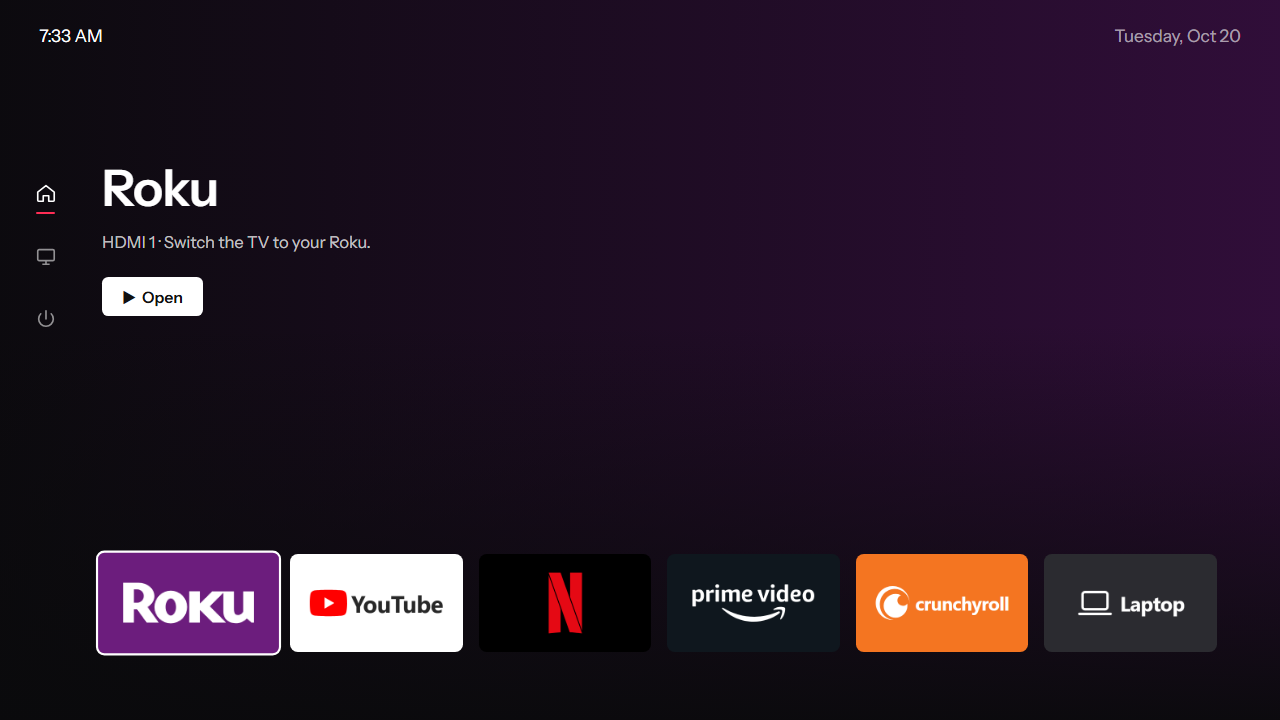
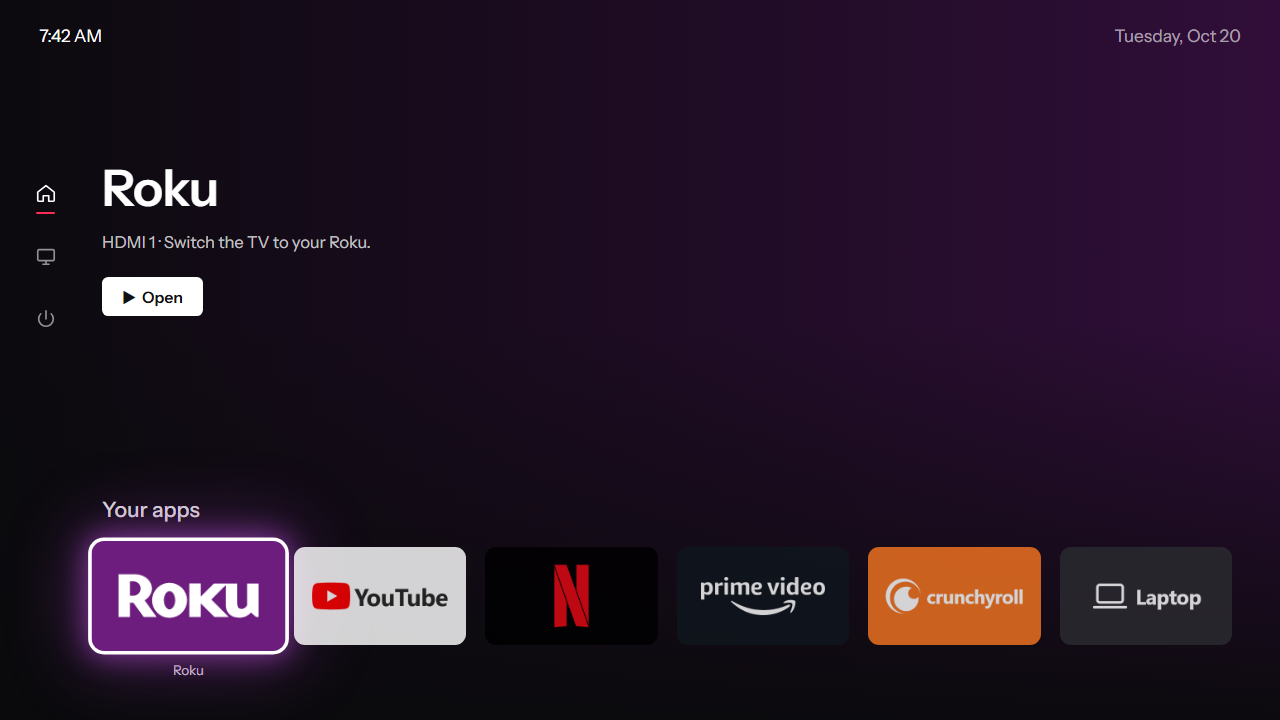
Google TV-style focus: brand-colored glow, white ring, caption, 'Your apps' shelf

diff --git a/src/tvui/static/index.html b/src/tvui/static/index.html
@@ -40,14 +40,19 @@
   .hero .btn { display: inline-block; padding: .6rem 1.3rem; border-radius: .4rem;
     background: #fff; color: #111; font-size: 1rem; font-weight: 600; }
 
-  .row { position: absolute; left: 6.5rem; right: 0; bottom: 3.2rem; height: 7.4rem; white-space: nowrap;
+  .shelf { position: absolute; left: 6.5rem; bottom: 12.6rem; font-size: 1.35rem; font-weight: 500;
+    color: rgba(255,255,255,.85); }
+  .row { position: absolute; left: 6.5rem; right: 0; bottom: 2.4rem; height: 8.6rem; white-space: nowrap;
     -webkit-transition: margin-left .2s; transition: margin-left .2s; }
-  .tile { display: inline-block; vertical-align: top; width: 11rem; height: 6.24rem; margin-right: 1rem;
-    border-radius: .5rem; overflow: hidden; text-align: center; line-height: 6.24rem; font-size: 1.6rem;
-    font-weight: 700; letter-spacing: -.03rem; border: .18rem solid transparent; box-sizing: border-box;
-    background-size: cover; background-position: center;
-    -webkit-transition: -webkit-transform .15s; transition: transform .15s; }
-  .tile.on { border-color: #fff; -webkit-transform: scale(1.07); transform: scale(1.07); }
+  .cell { display: inline-block; vertical-align: top; width: 11rem; margin-right: 1.2rem; text-align: center; }
+  .tile { width: 11rem; height: 6.24rem; border-radius: .7rem; overflow: hidden;
+    line-height: 6.24rem; font-size: 1.6rem; font-weight: 700; letter-spacing: -.03rem;
+    background-size: cover; background-position: center; opacity: .82;
+    -webkit-transition: -webkit-transform .18s, opacity .18s; transition: transform .18s, opacity .18s; }
+  /* Focused: lift, white ring, and a glow in the app's own color */
+  .cell.on .tile { opacity: 1; -webkit-transform: scale(1.12); transform: scale(1.12); }
+  .cap { margin-top: 1.05rem; font-size: .85rem; color: rgba(255,255,255,.8); visibility: hidden; }
+  .cell.on .cap { visibility: visible; }
 
   .note { position: absolute; left: 6.5rem; bottom: 1.2rem; font-size: .9rem; color: rgba(255,255,255,.5); }
 </style>
@@ -64,6 +69,7 @@
 </div>
 
 <div class="hero"><h1 id="title"></h1><p id="desc"></p><span class="btn">&#9654;&nbsp; Open</span></div>
+<div class="shelf">Your apps</div>
 <div class="row" id="row"></div>
 <div class="note" id="note"></div>
 
@@ -74,17 +80,18 @@
 })();
 
 // Known services get their logo tile (img) or brand colors; anything else gets a neutral card.
+// glow: page tint behind the hero; halo: focus glow around the tile.
 var BRANDS = {
-  netflix: { bg: "#000", fg: "#e50914", glow: "#5a0a0e", text: "NETFLIX", img: 1 },
-  youtube: { bg: "#fff", fg: "#ff0000", glow: "#4a1010", text: "YouTube", img: 1 },
-  prime:   { bg: "#0f171e", fg: "#00a8e1", glow: "#0b3550", text: "prime video", img: 1 },
-  roku:    { bg: "#6c1d7d", fg: "#fff", glow: "#3d0f48", text: "Roku", img: 1 },
-  crunchyroll: { bg: "#f47521", fg: "#fff", glow: "#5a2a0b", text: "crunchyroll", img: 1 },
-  laptop:  { bg: "#2b2b30", fg: "#fff", glow: "#24242c", text: "Laptop", img: 1 },
-  hulu:    { bg: "#0b0c0f", fg: "#1ce783", glow: "#0d4a2c", text: "hulu" },
-  disney:  { bg: "#0e1a5c", fg: "#fff", glow: "#0e1a5c", text: "Disney+" },
-  plex:    { bg: "#1f1f1f", fg: "#e5a00d", glow: "#4a3604", text: "plex" },
-  max:     { bg: "#002be7", fg: "#fff", glow: "#001a8c", text: "max" }
+  netflix: { bg: "#000", fg: "#e50914", glow: "#5a0a0e", halo: "229,9,20", text: "NETFLIX", img: 1 },
+  youtube: { bg: "#fff", fg: "#ff0000", glow: "#4a1010", halo: "255,60,60", text: "YouTube", img: 1 },
+  prime:   { bg: "#0f171e", fg: "#00a8e1", glow: "#0b3550", halo: "0,168,225", text: "prime video", img: 1 },
+  roku:    { bg: "#6c1d7d", fg: "#fff", glow: "#3d0f48", halo: "170,70,200", text: "Roku", img: 1 },
+  crunchyroll: { bg: "#f47521", fg: "#fff", glow: "#5a2a0b", halo: "244,117,33", text: "crunchyroll", img: 1 },
+  laptop:  { bg: "#2b2b30", fg: "#fff", glow: "#24242c", halo: "200,200,215", text: "Laptop", img: 1 },
+  hulu:    { bg: "#0b0c0f", fg: "#1ce783", glow: "#0d4a2c", halo: "28,231,131", text: "hulu" },
+  disney:  { bg: "#0e1a5c", fg: "#fff", glow: "#0e1a5c", halo: "60,110,255", text: "Disney+" },
+  plex:    { bg: "#1f1f1f", fg: "#e5a00d", glow: "#4a3604", halo: "229,160,13", text: "plex" },
+  max:     { bg: "#002be7", fg: "#fff", glow: "#001a8c", halo: "40,90,255", text: "max" }
 };
 var DESC = {
   input: "Switch the TV to this HDMI input.",
@@ -100,7 +107,7 @@ var side = document.getElementById("side").getElementsByTagName("div");
 function brand(name) {
   var k = name.toLowerCase();
   for (var b in BRANDS) if (k.indexOf(b) >= 0) { BRANDS[b].key = b; return BRANDS[b]; }
-  return { bg: "#26262b", fg: "#fff", glow: "#222228", text: name };
+  return { bg: "#26262b", fg: "#fff", glow: "#222228", halo: "200,200,215", text: name };
 }
 
 function get(path, done) {
@@ -112,20 +119,31 @@ function get(path, done) {
 
 function build() {
   for (var i = 0; i < tiles.length; i++) {
-    var b = brand(tiles[i].name), t = document.createElement("div");
+    var b = brand(tiles[i].name), c = document.createElement("div"), t = document.createElement("div"),
+        cap = document.createElement("div");
+    c.className = "cell";
     t.className = "tile";
     t.style.backgroundColor = b.bg;
     t.style.color = b.fg;
     if (b.img) t.style.backgroundImage = "url(/tile-" + b.key + ".png)";
     else t.innerHTML = b.text;
-    row.appendChild(t);
+    cap.className = "cap";
+    cap.innerHTML = tiles[i].name;
+    c.appendChild(t);
+    c.appendChild(cap);
+    row.appendChild(c);
   }
   draw();
 }
 
 function draw() {
   var n = row.childNodes;
-  for (var i = 0; i < n.length; i++) n[i].className = "tile" + (!inSide && i === sel ? " on" : "");
+  for (var i = 0; i < n.length; i++) {
+    var on = !inSide && i === sel, h = brand(tiles[i].name).halo, t = n[i].firstChild;
+    n[i].className = "cell" + (on ? " on" : "");
+    t.style.boxShadow = t.style.webkitBoxShadow = on
+      ? "0 0 0 .2rem #fff, 0 0 1.6rem .3rem rgba(" + h + ",.65), 0 0 4rem 1rem rgba(" + h + ",.3)" : "none";
+  }
   for (var j = 0; j < side.length; j++)
     side[j].className = (j === 0 ? "cur" : "") + (inSide && j === sideSel ? " on" : "");
   if (!tiles.length) return;
@@ -133,8 +151,8 @@ function draw() {
   document.getElementById("title").innerHTML = t.name;
   document.getElementById("desc").innerHTML = t.label || DESC[t.action] || "";
   document.getElementById("bg").style.backgroundColor = brand(t.name).glow;
-  // Scroll the row so the selected tile stays on screen (tile + gap = 12rem, ~6 fit).
-  row.style.marginLeft = -Math.max(0, sel - 5) * 12 + "rem";
+  // Scroll the row so the selected tile stays on screen (tile + gap = 12.2rem, ~6 fit).
+  row.style.marginLeft = -Math.max(0, sel - 5) * 12.2 + "rem";
 }
 
 function open() {
